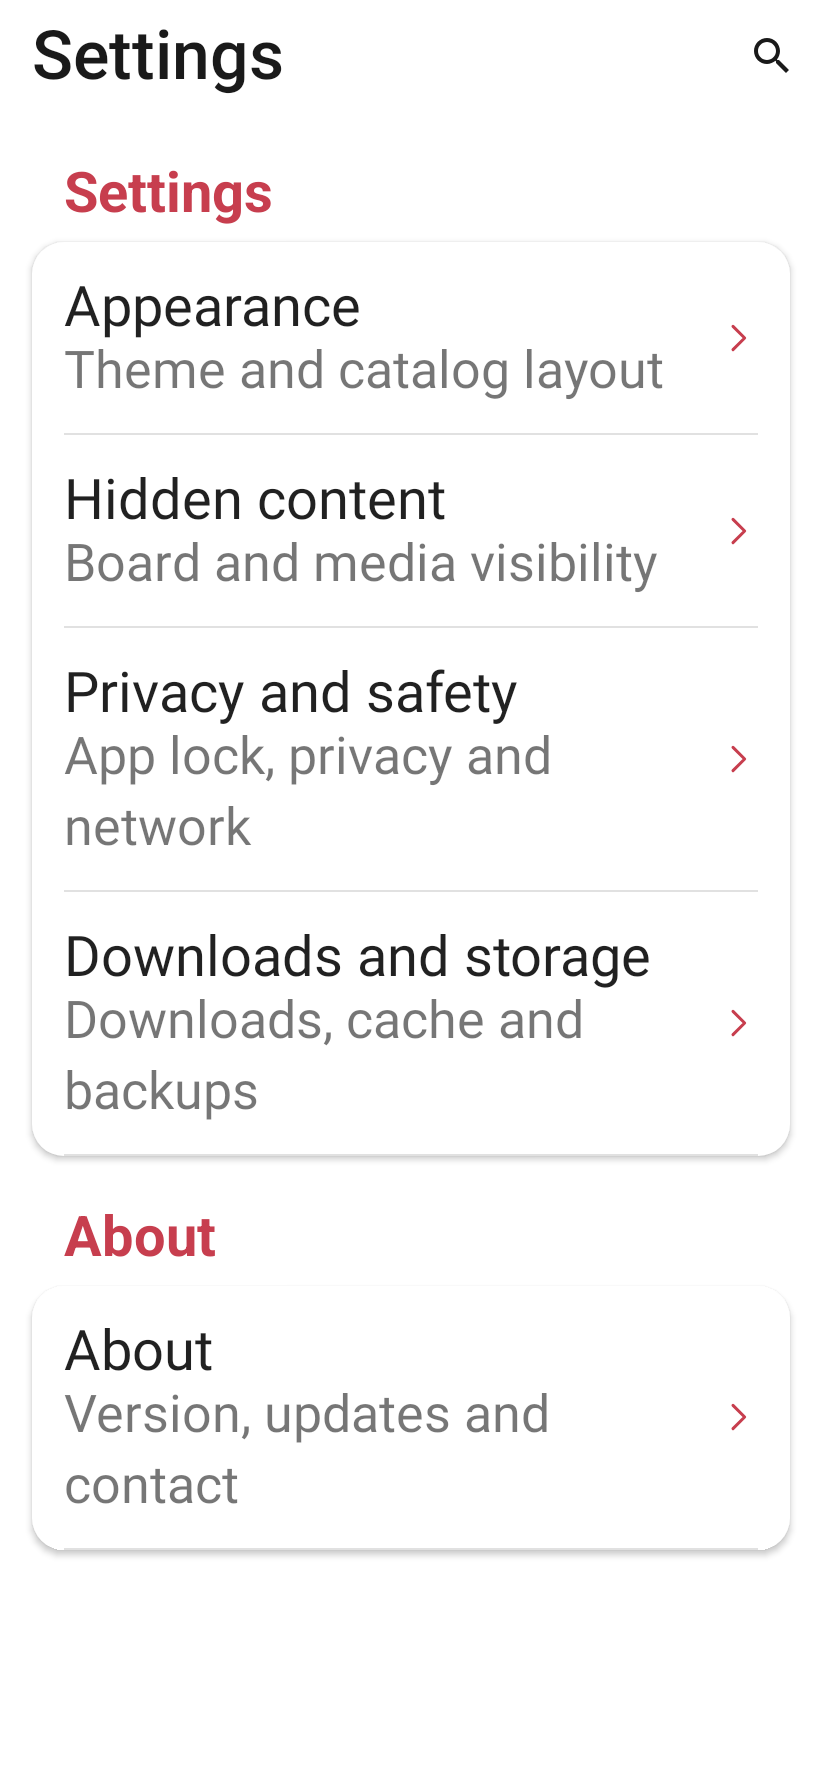
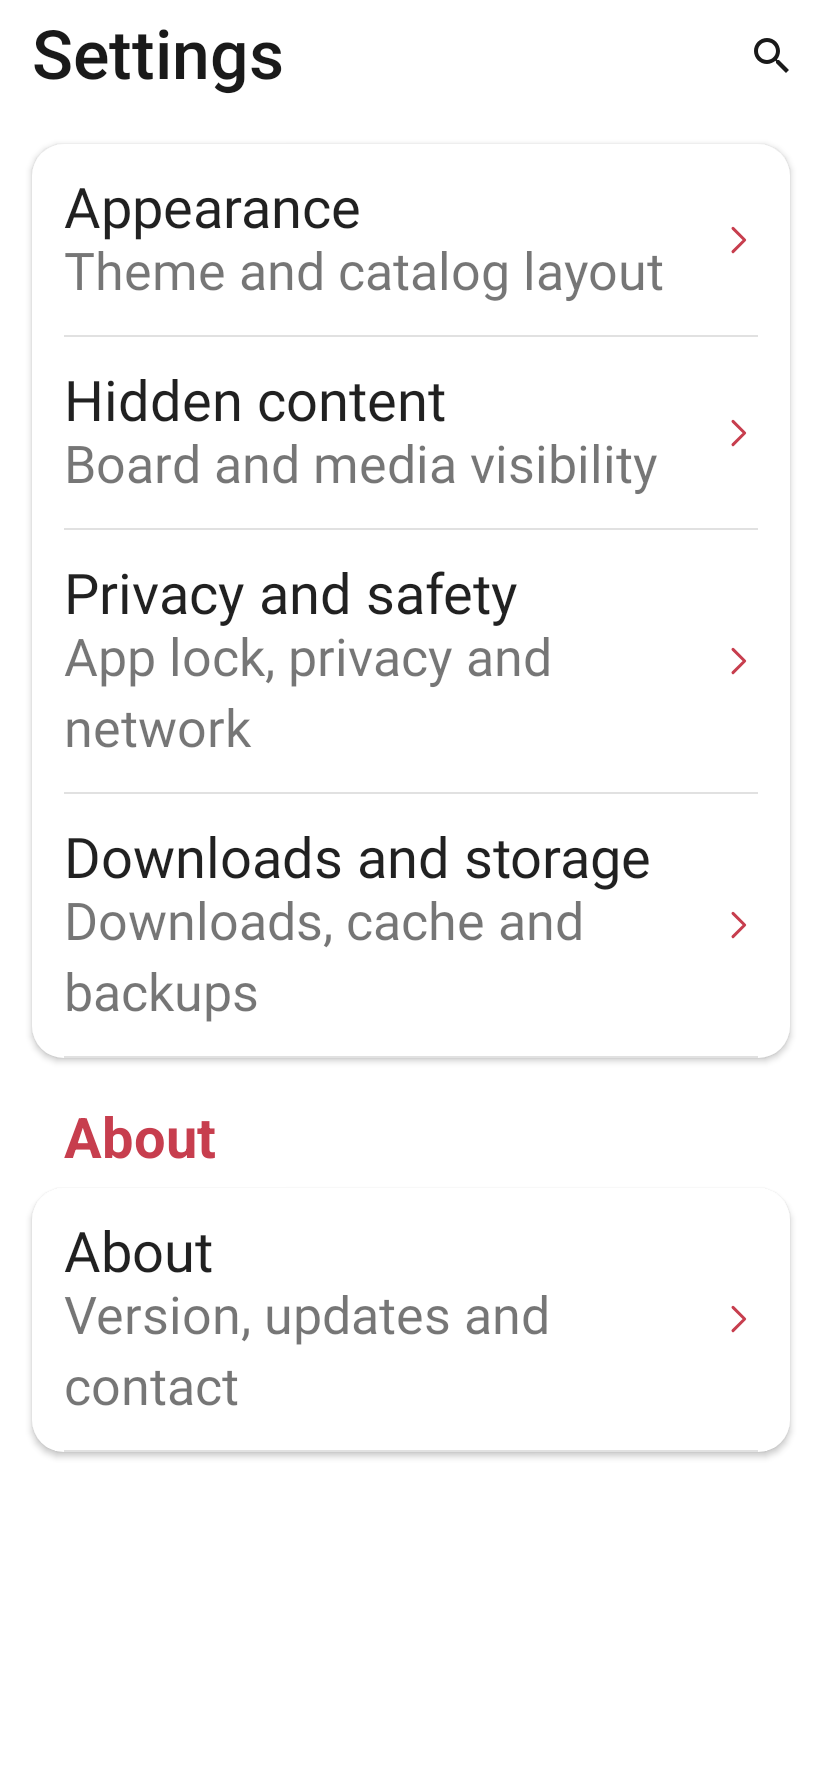
chore: polish settings directory, short-clip seek, and build warnings

diff --git a/ui-next/src/commonMain/kotlin/com/orbin/uinext/ReaderMediaControls.kt b/ui-next/src/commonMain/kotlin/com/orbin/uinext/ReaderMediaControls.kt
@@ -75,12 +75,20 @@ fun ReaderMediaControls(
     pauseLabel: String = "Pause",
     restartLabel: String = "Restart",
     rewindLabel: String = "Rewind 5 seconds",
-    fastForwardLabel: String = "Forward 15 seconds",
+    fastForwardLabel: String = DEFAULT_FAST_FORWARD_LABEL,
     nextLabel: String = "Next",
 ) {
     val seekable = durationSeconds.isFinite() && durationSeconds > 0.0
     val duration = if (seekable) durationSeconds else 0.0
     val position = positionSeconds.takeIf { it.isFinite() }?.coerceIn(0.0, duration) ?: 0.0
+    val shortClip = seekable && duration <= SHORT_CLIP_SECONDS
+    val forwardStep = if (shortClip) REWIND_SECONDS else FAST_FORWARD_SECONDS
+    val resolvedFastForwardLabel =
+        if (shortClip && fastForwardLabel == DEFAULT_FAST_FORWARD_LABEL) {
+            "Forward 5 seconds"
+        } else {
+            fastForwardLabel
+        }
     // Background may draw behind the navigation bar; the transport and time bar stay in the
     // safe drawing area so they are not covered on edge-to-edge displays.
     Column(
@@ -104,15 +112,20 @@ fun ReaderMediaControls(
                     seekable,
                 ) { onSeek(0.0) }
                 MediaTransportButton(MediaTransportIcons.Rewind, rewindLabel, transportWidth, seekable) {
-                    onSeek((position - 5.0).coerceAtLeast(0.0))
+                    onSeek((position - REWIND_SECONDS).coerceAtLeast(0.0))
                 }
                 MediaTransportButton(
                     if (playing || loading) MediaTransportIcons.Pause else MediaTransportIcons.Play,
                     if (playing || loading) pauseLabel else playLabel,
                     transportWidth,
                 ) { onPlayPause() }
-                MediaTransportButton(MediaTransportIcons.FastForward, fastForwardLabel, transportWidth, seekable) {
-                    onSeek((position + 15.0).coerceAtMost(duration))
+                MediaTransportButton(
+                    MediaTransportIcons.FastForward,
+                    resolvedFastForwardLabel,
+                    transportWidth,
+                    seekable,
+                ) {
+                    onSeek((position + forwardStep).coerceAtMost(duration))
                 }
                 MediaTransportButton(MediaTransportIcons.Next, nextLabel, transportWidth, enabled = false) {}
             }
@@ -264,3 +277,7 @@ private fun mediaSeekFraction(
 ): Double = ((x - inset) / (width - inset * 2).coerceAtLeast(1f)).coerceIn(0f, 1f).toDouble()
 
 private const val MEDIA_TRANSPORT_VIEWPORT = 24f
+private const val REWIND_SECONDS = 5.0
+private const val FAST_FORWARD_SECONDS = 15.0
+private const val SHORT_CLIP_SECONDS = 20.0
+private const val DEFAULT_FAST_FORWARD_LABEL = "Forward 15 seconds"

diff --git a/ui-next/src/commonMain/kotlin/com/orbin/uinext/SettingsDirectory.kt b/ui-next/src/commonMain/kotlin/com/orbin/uinext/SettingsDirectory.kt
@@ -27,7 +27,6 @@ import com.orbin.uinext.resources.reader_settings_privacy_summary
 import com.orbin.uinext.resources.reader_settings_sites_summary
 import com.orbin.uinext.resources.reader_settings_storage
 import com.orbin.uinext.resources.reader_settings_storage_summary
-import com.orbin.uinext.resources.reader_settings_title
 import com.orbin.uinext.resources.reader_settings_watched
 import com.orbin.uinext.resources.reader_settings_watched_summary
 import org.jetbrains.compose.resources.stringResource
@@ -58,7 +57,6 @@ internal fun settingsDirectory(
     listOf(
         "settings" to
             listOfNotNull(
-                "watched".takeIf { navigationAvailable },
                 "boards".takeIf { navigationAvailable },
                 "appearance".takeIf { it in pages },
                 "boardPreferences".takeIf { navigationAvailable && "playback" in pages },
@@ -98,13 +96,7 @@ internal fun settingsPageLabels(): Map<String, String> =
 
 @Composable
 internal fun directorySectionLabel(id: String): String =
-    if (id ==
-        "settings"
-    ) {
-        stringResource(Res.string.reader_settings_title)
-    } else {
-        stringResource(Res.string.reader_settings_about)
-    }
+    if (id == "settings") "" else stringResource(Res.string.reader_settings_about)
 
 @Composable
 internal fun settingsDirectorySummary(id: String): String =

diff --git a/ui-next/src/androidHostTest/kotlin/com/orbin/uinext/ReaderMediaChromeTest.kt b/ui-next/src/androidHostTest/kotlin/com/orbin/uinext/ReaderMediaChromeTest.kt
@@ -213,11 +213,23 @@ class ReaderMediaChromeTest {
             }
         }
         val panel = compose.onNodeWithTag(ReaderMediaControlsTags.PANEL).fetchSemanticsNode().boundsInRoot
-        listOf("Restart", "Rewind 5 seconds", "Pause", "Forward 15 seconds", "Next").forEach { label ->
+        listOf("Restart", "Rewind 5 seconds", "Pause", "Forward 5 seconds", "Next").forEach { label ->
             val bounds = compose.onNodeWithContentDescription(label).fetchSemanticsNode().boundsInRoot
             assertTrue(bounds.width >= 48f)
             assertTrue(bounds.left >= panel.left)
             assertTrue(bounds.right <= panel.right + 0.1f)
         }
+    }
+
+    @Test
+    fun shortClipsForwardByFiveSecondsInsteadOfFifteen() {
+        val seeks = mutableListOf<Double>()
+        compose.setContent {
+            NextTheme {
+                ReaderMediaControls(false, 0.0, 6.0, {}, { seeks += it }, Modifier.width(390.dp))
+            }
+        }
+        compose.onNodeWithContentDescription("Forward 5 seconds").performClick()
+        assertEquals(listOf(5.0), seeks)
     }
 }

diff --git a/CHANGELOG.md b/CHANGELOG.md
@@ -11,6 +11,7 @@ All notable changes to Orbin are documented here. The format is based on
 ### Added
 - Added Card view to Feed and board catalogs: one full-width card per row with a larger image preview, alongside the existing Grid and List layouts.
 - Added Card to Appearance settings and layout menus; the Home layout button cycles Grid, List and Card.
+- Added Card view to Thread view alongside Posts and Files; the Thread layout button cycles Posts, Files and Card view.
 
 ### Changed
 - Saved Card view as a shared layout preference on Android and iOS, including backup restoration, while retaining existing Grid and List selections.
